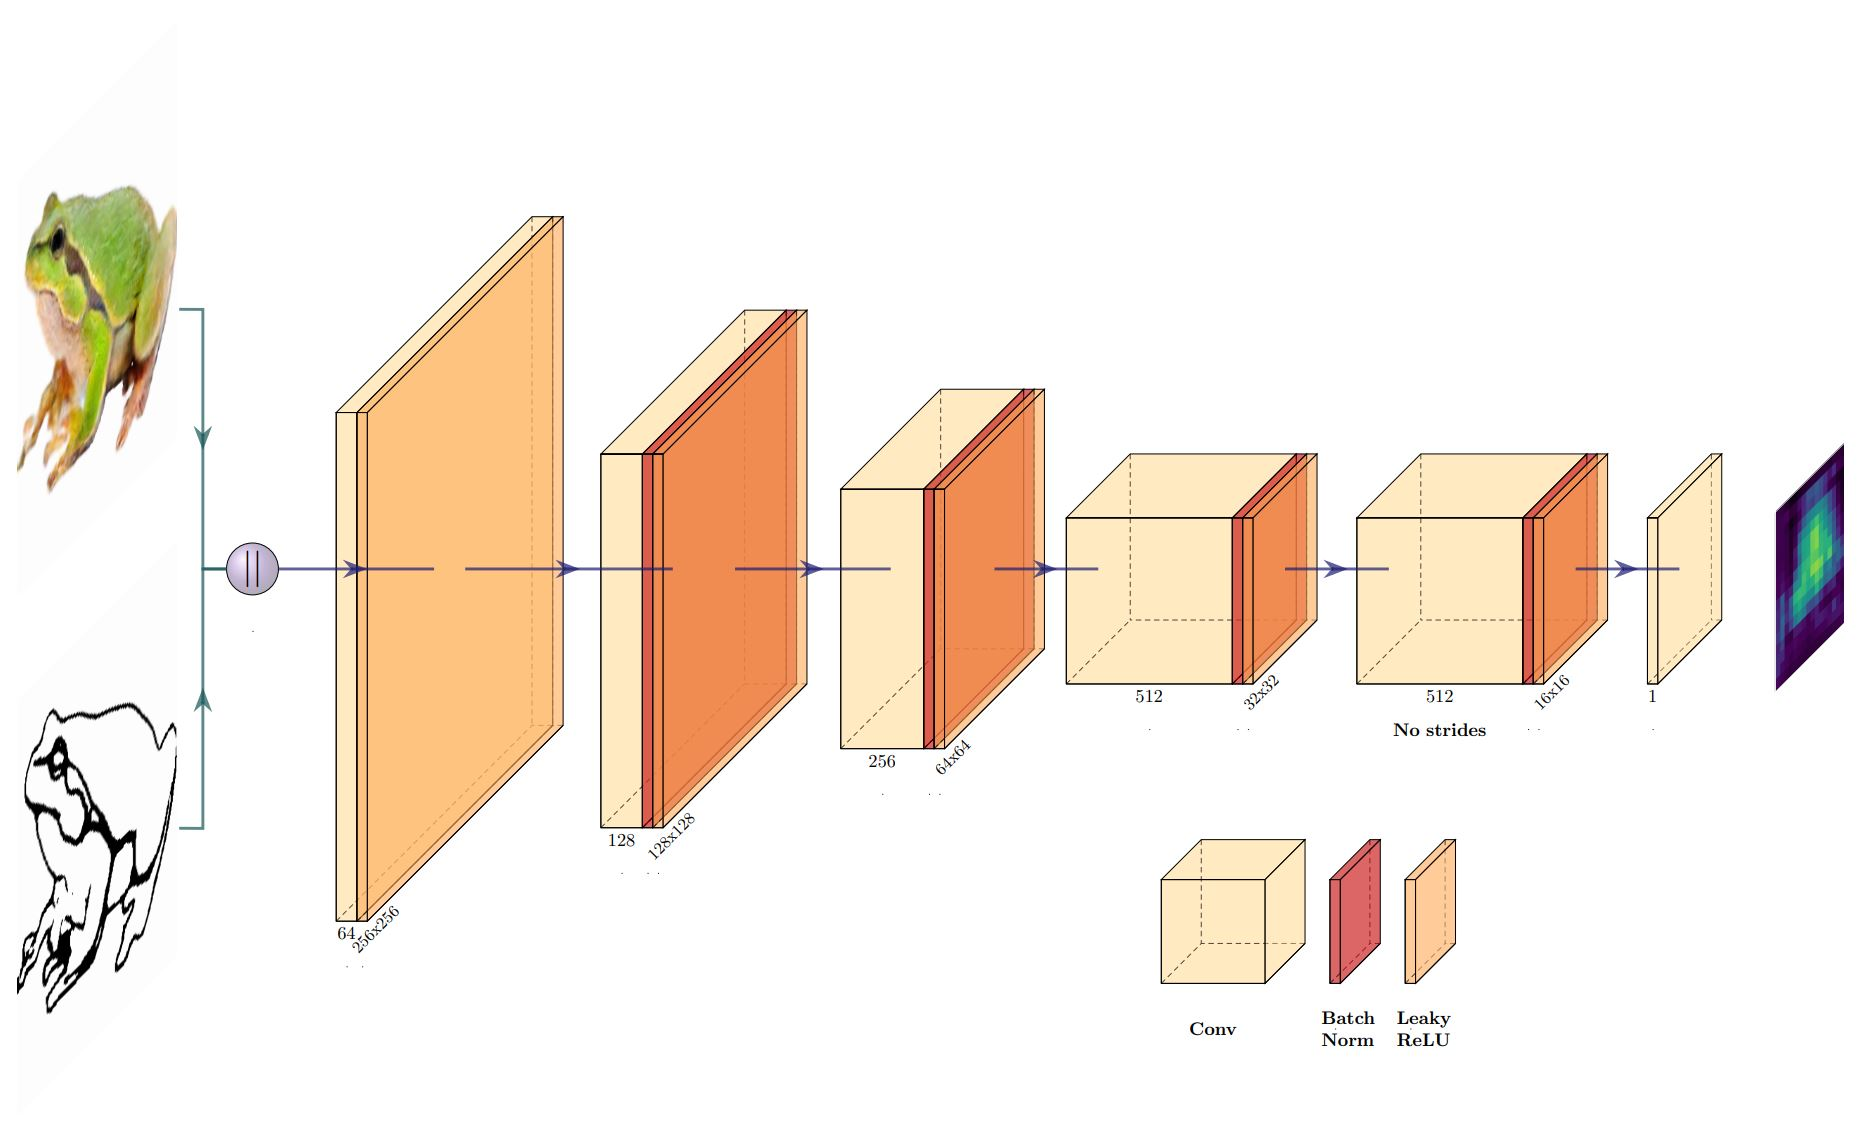
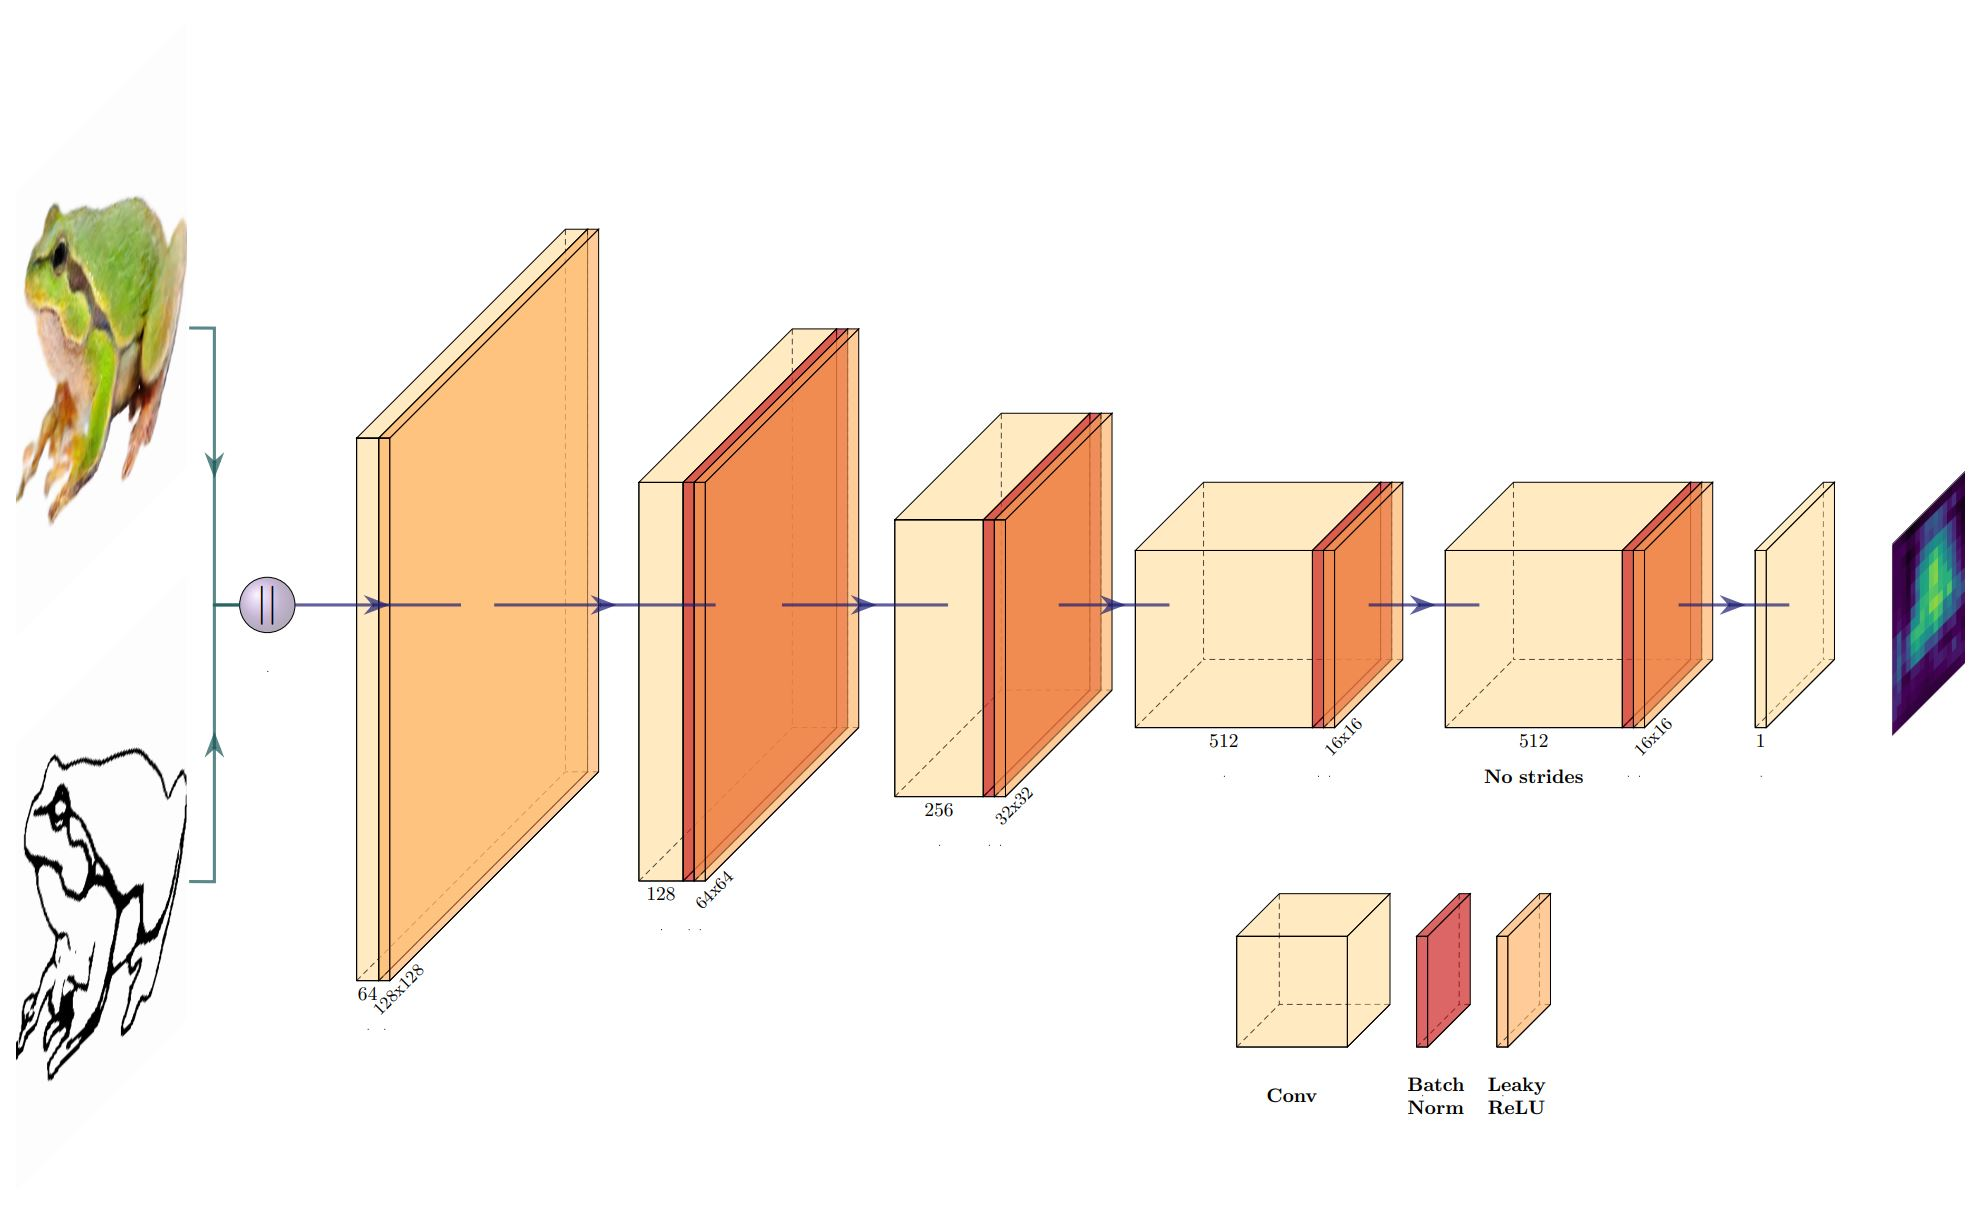
fix discriminator plot

diff --git a/sketch2frog/reports/architecture_plots/pix2pix_disc.py b/sketch2frog/reports/architecture_plots/pix2pix_disc.py
@@ -80,19 +80,19 @@ arch = [
    
     # conv1
     to_Conv(name="c1", s_filer=" ", n_filer=64, offset="(3,0,0)", to="(cat_input-east)", width=2, height=49, depth=49, caption=" " ),
-    to_LeakyRelu(name="lr1", s_filer="256x256", offset="(0,0,0)", to="(c1-east)", width=1, height=49, depth=49, opacity=0.6, caption=" "),
+    to_LeakyRelu(name="lr1", s_filer="128x128", offset="(0,0,0)", to="(c1-east)", width=1, height=49, depth=49, opacity=0.6, caption=" "),
     # conv2
     to_Conv(name="c2", s_filer=" ", n_filer=128, offset="(4,0,0)", to="(lr1-east)", width=4, height=36, depth=36, caption=" " ),
     to_BN(name="bn2", offset="(0,0,0)", to="(c2-east)", width=1, height=36, depth=36, opacity=0.6, caption=" "),
-    to_LeakyRelu(name="lr2", s_filer="128x128", offset="(0,0,0)", to="(bn2-east)", width=1, height=36, depth=36, opacity=0.6, caption=" "),
+    to_LeakyRelu(name="lr2", s_filer="64x64", offset="(0,0,0)", to="(bn2-east)", width=1, height=36, depth=36, opacity=0.6, caption=" "),
     # conv3
     to_Conv(name="c3", s_filer=" ", n_filer=256, offset="(3,0,0)", to="(lr2-east)", width=8, height=25, depth=25, caption=" " ),
     to_BN(name="bn3", offset="(0,0,0)", to="(c3-east)", width=1, height=25, depth=25, opacity=0.6, caption=" "),
-    to_LeakyRelu(name="lr3", s_filer="64x64", offset="(0,0,0)", to="(bn3-east)", width=1, height=25, depth=25, opacity=0.6, caption=" "),
+    to_LeakyRelu(name="lr3", s_filer="32x32", offset="(0,0,0)", to="(bn3-east)", width=1, height=25, depth=25, opacity=0.6, caption=" "),
     # conv4
     to_Conv(name="c4", s_filer=" ", n_filer=512, offset="(2,0,0)", to="(lr3-east)", width=16, height=16, depth=16, caption=" " ),
     to_BN(name="bn4", offset="(0,0,0)", to="(c4-east)", width=1, height=16, depth=16, opacity=0.6, caption=" "),
-    to_LeakyRelu(name="lr4", s_filer="32x32", offset="(0,0,0)", to="(bn4-east)", width=1, height=16, depth=16, opacity=0.6, caption=" "),
+    to_LeakyRelu(name="lr4", s_filer="16x16", offset="(0,0,0)", to="(bn4-east)", width=1, height=16, depth=16, opacity=0.6, caption=" "),
     # conv5 no strides
     to_Conv(name="c5", s_filer=" ", n_filer=512, offset="(2,0,0)", to="(lr4-east)", width=16, height=16, depth=16, caption="No strides" ),
     to_BN(name="bn5", offset="(0,0,0)", to="(c5-east)", width=1, height=16, depth=16, opacity=0.6, caption=" "),
